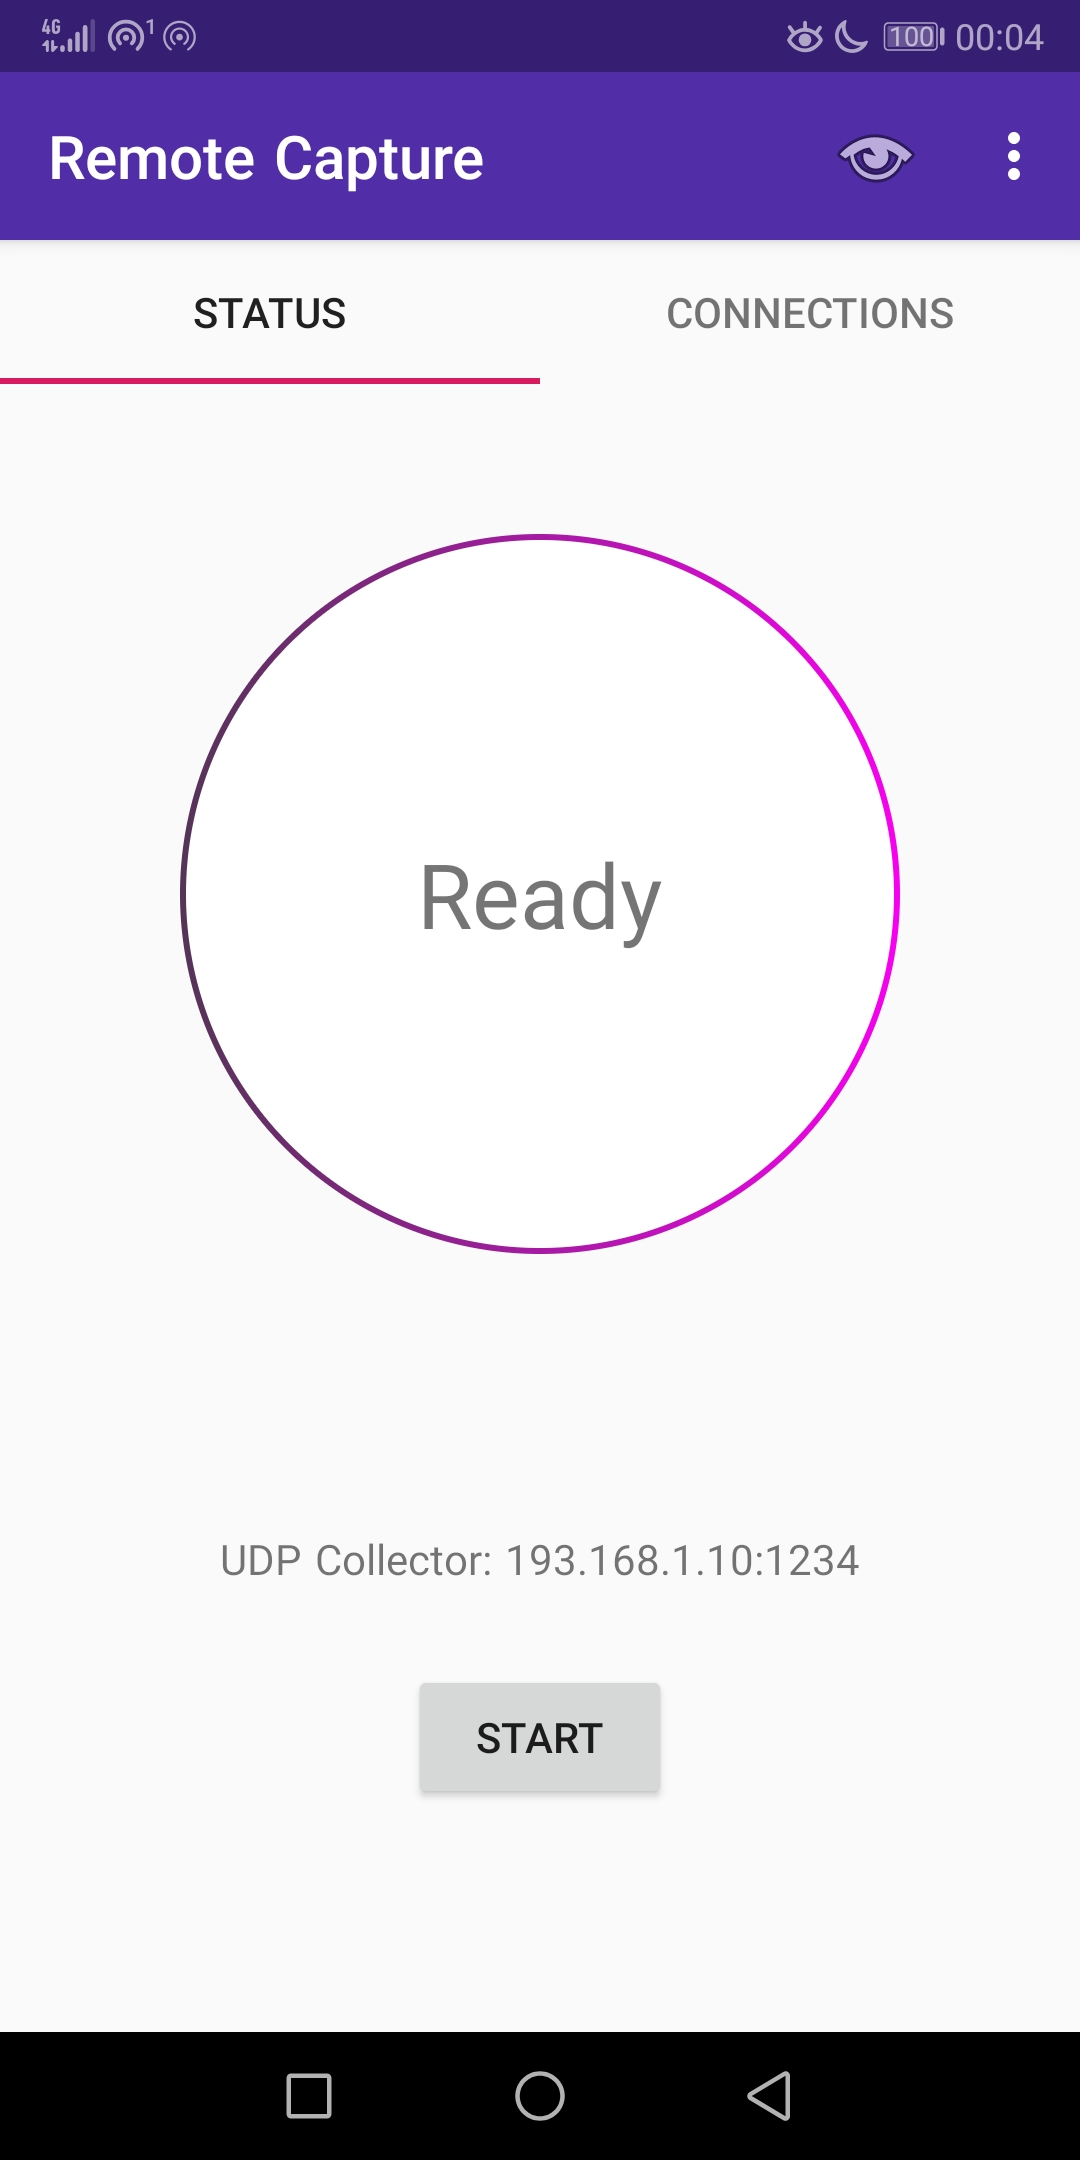
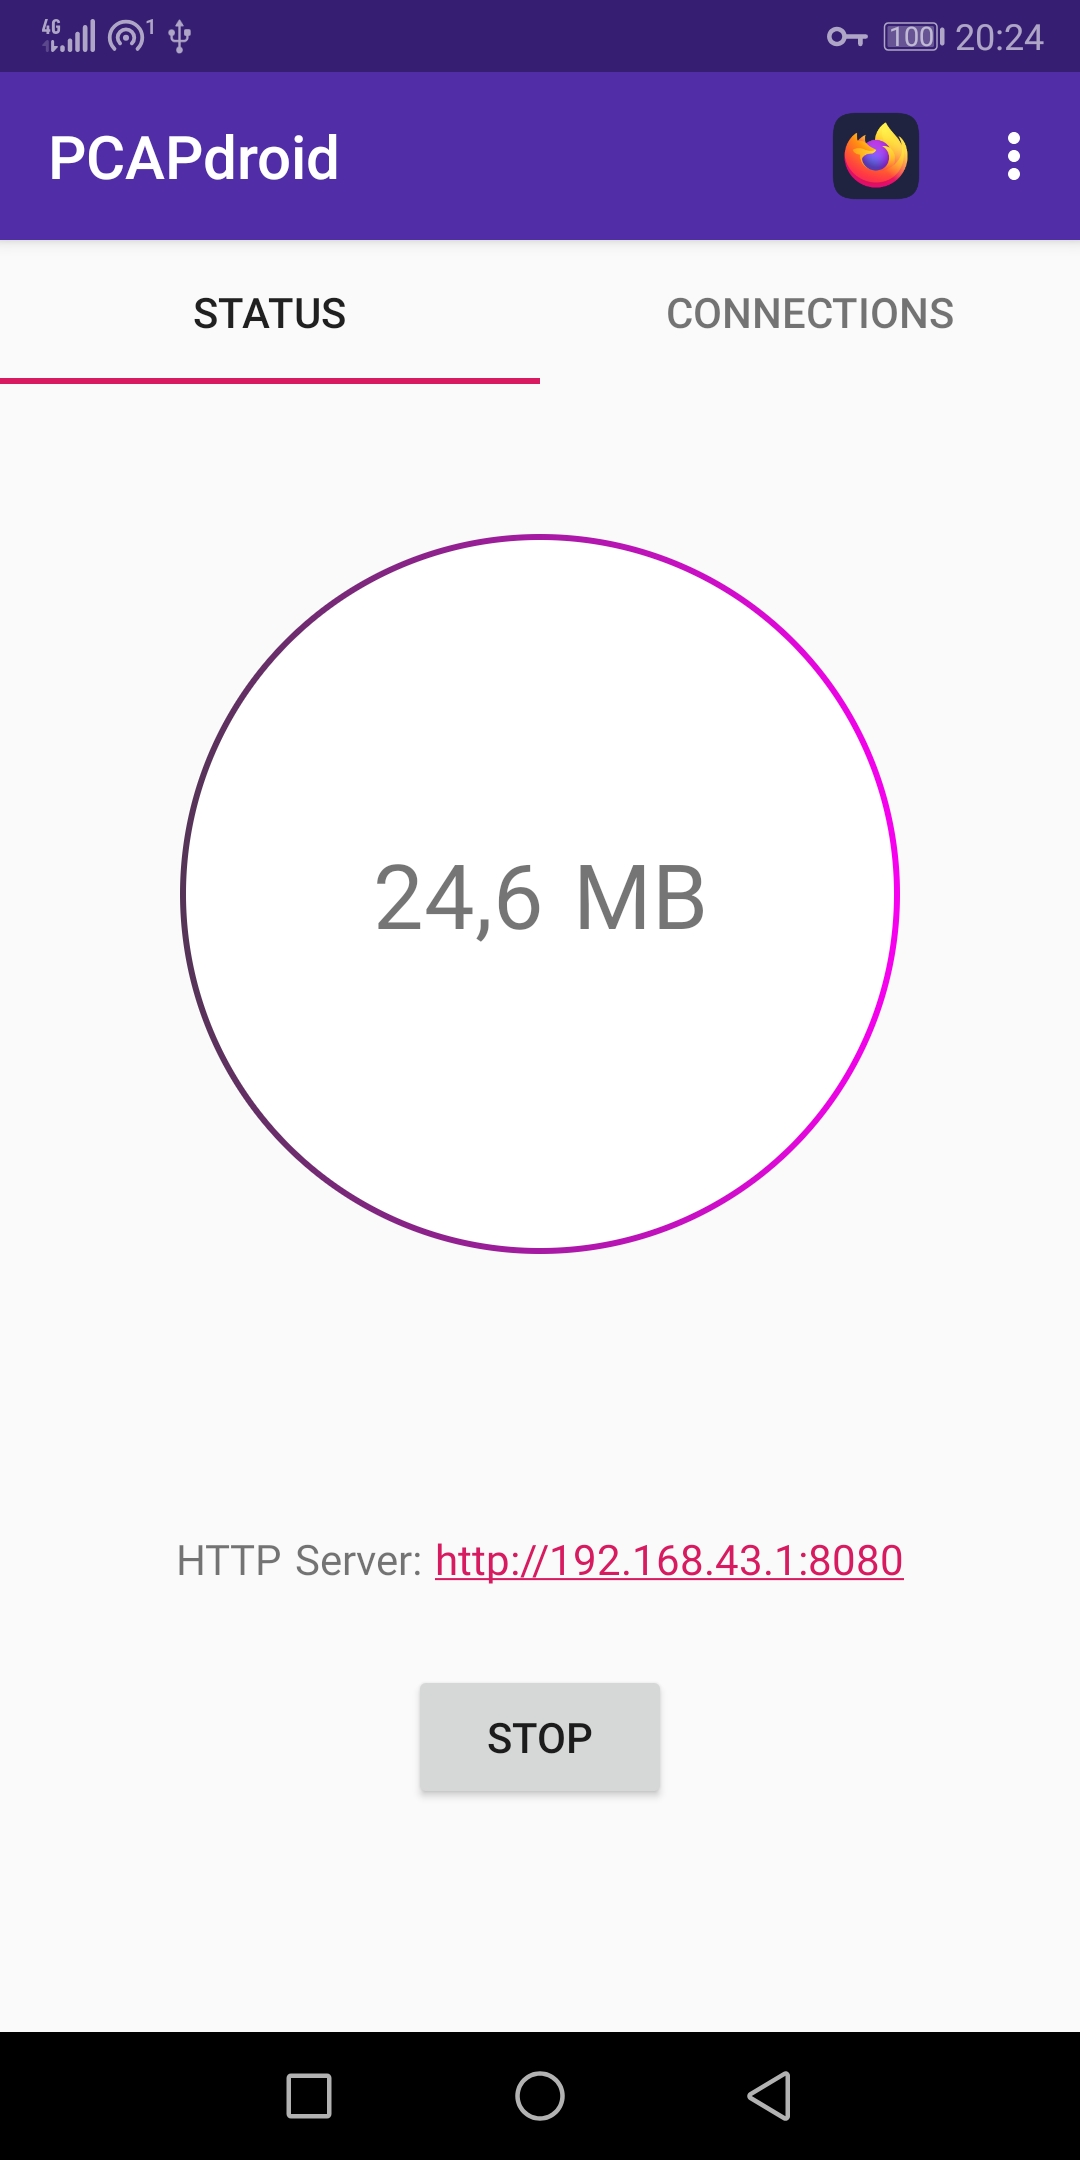
Bump version to 1.2.1, add CHANGELOG

diff --git a/app/src/main/java/com/emanuelef/remote_capture/CaptureService.java b/app/src/main/java/com/emanuelef/remote_capture/CaptureService.java
@@ -38,7 +38,7 @@ import java.net.InetSocketAddress;
 
 public class CaptureService extends VpnService implements Runnable {
     private static final String TAG = "CaptureService";
-    private static final String VpnSessionName = "Remote Capture VPN";
+    private static final String VpnSessionName = "PCAPdroid VPN";
     private ParcelFileDescriptor mParcelFileDescriptor = null;
     private Thread mThread;
     private String vpn_ipv4;

diff --git a/CHANGELOG.md b/CHANGELOG.md
@@ -1,0 +1,29 @@
+# Changelog
+
+Releases available at https://github.com/emanuele-f/PCAPdroid/releases
+
+## [1.2.1] - 2020-01-06
+- New embedded HTTP server to easily download the PCAP from multiple devices
+- Choose how to dump packets: HTTP server, UDP exporter, none.
+- App renamed to PCAPdroid, changed version scheme, added changelog
+
+# Older Releases
+
+Releases available at https://github.com/emanuele-f/RemoteCapture/releases
+
+## [1.2] - 2020-01-01
+- New tab to display the active connections, with server name and traffic volume
+- Show server name, DNS query, L7 protocol information from nDPI
+- Click on a connection to show its details
+- Use the system DNS server (fallback to 8.8.8.8 only if not available)
+
+## [1.1] - 2019-11-03
+- Fix app state loading after resume
+- Add option to enable/disable unknown app traffic capture
+- Add UDP receiver python script to easily pause and resume capture
+
+## [1.0] - 2019-10-26
+- Capture apps traffic without root
+- Send captured traffic via UDP
+- Show captured traffic realtime statistics
+- Apply a filter to only capture traffic for the selected app
